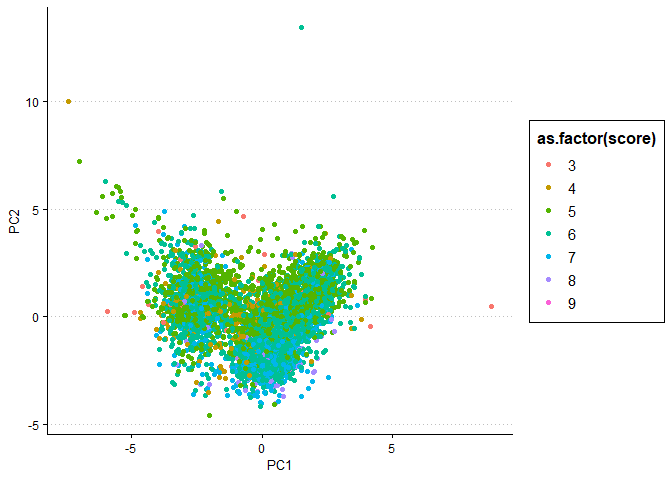
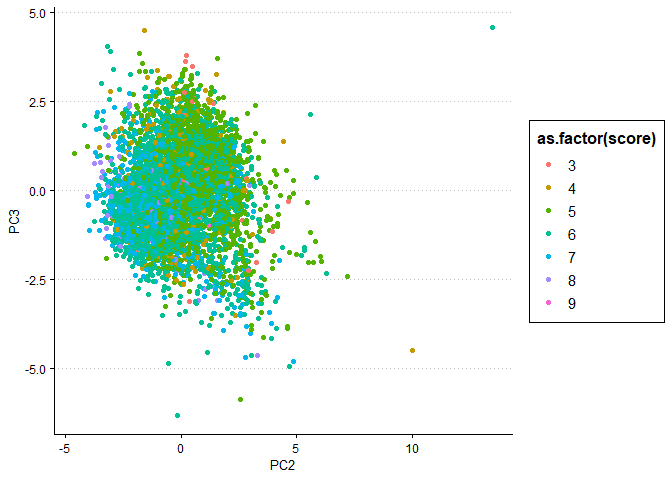
finish problem 3

diff --git a/exercises-3/rmarkdown/individual_exercise_writeups/exercises3_problem3_writeup.md b/exercises-3/rmarkdown/individual_exercise_writeups/exercises3_problem3_writeup.md
@@ -1,49 +1,92 @@
 Exercise 3
 ================
 
-In this exercise, we analyze data on the chemical properties of 6500
+In this exercise, we analyze data on eleven chemical properties of 6500
 different bottles of *vinho verde* wine from northern Portugal. We
 compare principal component analysis (PCA) and K-means++ clustering to
 choose a method that easily distinguishes between red and white wine. We
 further investigate the ability of each method to sort higher quality
 wines from lower quality wines. We find that K-means++ is better for the
 application of distinguishing white wine from red but that PCA captures
-more information about wine
-quality.
+more information about wine quality.
 
 ### PCA
 
+Running the PCA algorithm and plotting the first two principal
+components, we find the figure below. It has two relatively well-defined
+clusters: one centered at roughly (-2.5, 1) and the other centered at
+roughly (1,
+0).
+
+![](exercises3_problem3_writeup_files/figure-gfm/pca_scatter-1.png)<!-- -->
+
+In the figure below, the points have been colored according to the color
+of the corresponding wine. (To be clear, this information was not used
+in the PCA calculation.) This figure shows that primary components 1 and
+2 successfully separates white wine from
+red.
+
 ![](exercises3_problem3_writeup_files/figure-gfm/pca_scatter_color-1.png)<!-- -->
 
-![](exercises3_problem3_writeup_files/figure-gfm/pca_box_color-1.png)<!-- -->
+Unfortunately, PCA alone gives us no algorithmic way to say which
+observations should belong to each cluster. That would require a
+clustering algorithm.
+
+In the figure below, the second and third principle components are
+plotted with the points now colored according to the quality score.
+(This information was not used in the PCA calculation either.)
+Obviously, this scatter plot does not have apparent clusters
+corresponding to each quality
+score.
 
 ![](exercises3_problem3_writeup_files/figure-gfm/pca_scatter_score-1.png)<!-- -->
 
-![](exercises3_problem3_writeup_files/figure-gfm/pca_box_score_pc1-1.png)<!-- -->
+However, one can see in the next two plots that the second and third
+principle components tend to decrease along with the quality score.
+(Note that the direction may change, since PCA chooses direction
+arbitrarily. I have set the seed to be able to replicate the same
+findings.)
 
 ![](exercises3_problem3_writeup_files/figure-gfm/pca_box_score_pc2-1.png)<!-- -->
 
 ![](exercises3_problem3_writeup_files/figure-gfm/pca_box_score_pc3-1.png)<!-- -->
 
+We can therefore say that PCA has some capability to sort the lower
+quality from the higher quality wines.
+
 ### K-Means++
+
+Now, we try running the K-means++ algorithm with K = 2, corresponding to
+the two colors of the wines. We can look at a “confusion matrix” where
+the “prediction” is not actually a prediction but an unsupervised
+cluster assignment. This is shown in Table 1.
 
 |       | Cl 1 | Cl 2 |
 | ----- | ---: | ---: |
-| red   | 1575 |   24 |
-| white |   68 | 4830 |
+| red   |   24 | 1575 |
+| white | 4830 |   68 |
 
-Table with kable
+Table 1: Cluster (horizontal) vs. color (vertical)
 
-|   | Cl 1 | Cl 2 | Cl 3 | Cl 4 | Cl 5 | Cl 6 | Cl 7 |
-| - | ---: | ---: | ---: | ---: | ---: | ---: | ---: |
-| 3 |    4 |    4 |    2 |    1 |    7 |    7 |    5 |
-| 4 |   21 |   15 |   27 |    2 |   24 |   63 |   64 |
-| 5 |   77 |  200 |  269 |   20 |  655 |  471 |  446 |
-| 6 |  548 |  265 |  475 |    9 |  640 |  350 |  549 |
-| 7 |  446 |  141 |  189 |    1 |  122 |   43 |  137 |
-| 8 |   97 |   14 |   31 |    0 |   22 |    2 |   27 |
-| 9 |    4 |    0 |    0 |    0 |    0 |    0 |    1 |
+This is really effective\! The error rate is only (24+68)/6497 = 0.014.
 
-Table with kable
+If we instead try to cluster with higher K-values, we find little of
+interest. It’s not even clear which cluster might correspond to each
+quality level, as shown in the violin plots below. (Note that “quality
+score” is not a continuous variable. The violin plot interpolates values
+between the integer values that the variable actually
+takes.)
+
+![](exercises3_problem3_writeup_files/figure-gfm/k_meanspp_score_violin-1.png)<!-- -->![](exercises3_problem3_writeup_files/figure-gfm/k_meanspp_score_violin-2.png)<!-- -->![](exercises3_problem3_writeup_files/figure-gfm/k_meanspp_score_violin-3.png)<!-- -->![](exercises3_problem3_writeup_files/figure-gfm/k_meanspp_score_violin-4.png)<!-- -->![](exercises3_problem3_writeup_files/figure-gfm/k_meanspp_score_violin-5.png)<!-- -->
 
 ### Which is better here?
+
+The decision of which is better ultimately depends on the purpose of
+this dimensionality-reduction technique. If the purpose is to classify
+wines as “red” or “white” in an unsupervised manner, then K-means++ is
+better. If the purpose is to predict the color or quality of an unknown
+wine, then PCA (in addition to some sort of supervised classification
+algorithm such as classification trees or OLS regression) is better.
+
+Neither method is particularly useful for unsupervised sorting of wines
+into higher or lower quality.
